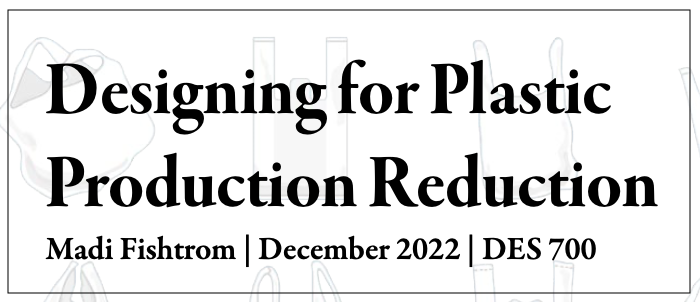
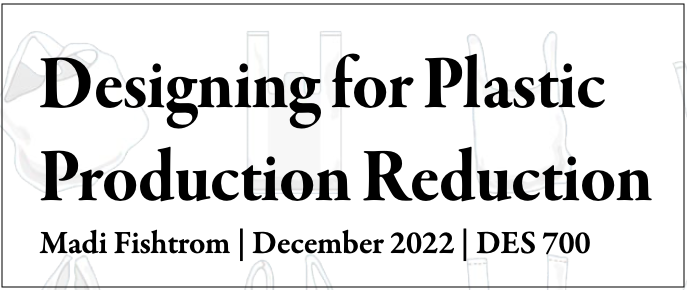
mobile formatting

Changed region(s): [[0.0, 0.0, 1.0, 1.0], [0.4585, 0.0931, 0.4891, 0.1241], [0.3668, 0.0931, 0.3974, 0.1241]]

diff --git a/styles.css b/styles.css
@@ -94,7 +94,7 @@ li:nth-of-type(6):hover{
 /* body */
 body{
     margin-top: 200px;
-    margin-bottom: 300px;
+    margin-bottom: 100px;
     margin-left: auto;
     overflow-y: auto;
 }
@@ -129,6 +129,7 @@ p{
 
 .title{
     font-family: 'Libre Baskerville', serif;
+    font-size: 24px;
     padding-right: 25px;
     padding-left: 25px;
     background-image: linear-gradient(to right, hsl(0, 75%, 90%), hsl(50deg 50% 75%), hsl(125deg 50% 75%), hsl(225deg 50% 75%), hsl(300deg 50% 75%));
@@ -205,7 +206,23 @@ h3{
 /* Project Management */
 
 iframe{
-    width: 200px;
+    width: 300px;
+    height: 500px;
+    display: block;
+    margin-left: auto;
+    margin-right: auto;
+}
+
+.research{
+    margin-top: 5%;
+    width: 500px;
+    display: block;
+    margin-left: auto;
+    margin-right: auto;
+}
+
+.smallerimg{
+    width: 50%;
     display: block;
     margin-left: auto;
     margin-right: auto;
@@ -224,7 +241,21 @@ footer {
 
 /* mobile formatting */
 
-@media only screen and (max-width: 800px) {
+@media screen and (max-width: 800px) {
+    .title{
+        font-size: 12px;
+    }
+
+    .about{
+        font-size: 10px;
+        padding-right: 10%;
+        padding-left: 10%;
+    }
+
+    p{
+        font-size: 10px;
+    }
+
     ul {
         list-style-type: none;
         margin: 0;
@@ -262,8 +293,26 @@ footer {
         background-image: linear-gradient(to right, hsl(0, 75%, 90%), hsl(50deg 50% 75%), hsl(125deg 50% 75%), hsl(225deg 50% 75%), hsl(300deg 50% 75%));
     }
 
+    h3{
+        font-size: small;
+    }
+
     hr{
         display: none;
+    }
+
+    iframe{
+        width: 100px;
+        height: auto;
+
+    }
+
+    .research{
+        margin-top: 15%;
+        width: 75%;
+        display: block;
+        margin-left: auto;
+        margin-right: auto;
     }
 
     .about{

diff --git a/other.html b/other.html
@@ -13,8 +13,6 @@
 
 </head>
 <header>
-    
-
     <ul>
         <section class="topnav" id="myTopnav">
             <li href="javascript:void(0);" class="icon" onclick="myFunction()">
@@ -43,13 +41,13 @@
             </a>
         <h3><b>Thermoformed Tableware</b><br>I designed children's utensils. Though my end product wasn't beautiful, I really enjoyed the process.</h3>
             <a href="Other/ThermoformedTableware.pdf">
-                <img src="Other/ThermoformedTableware.png" alt="CAD Model for Thermoformed Tableware" class="homepage">
+                <img src="Other/ThermoformedTableware.png" alt="CAD Model for Thermoformed Tableware" class="smallerimg">
             </a>
        
         <h2>Personal Projects</h2>
         <h3><b>Crafting</b><br>I am very passionate about creating things. I have a mini 3D printer, Cricut, and sewing machine that I use regularly.</h3>
             <a href="https://linktr.ee/mad.i.y.crafting">
-                <img src="Other/Crafting.png" alt="3D Printed Photo Keychains" class="homepage">
+                <img src="Other/Crafting.png" alt="3D Printed Photo Keychains" class="smallerimg">
             </a>
     </div>
 </body>

diff --git a/research.html b/research.html
@@ -41,7 +41,7 @@
             too often, which is something that we can fight to have changed. Click below to view a summary of my findings.
         </div><br>
         <a href="Research/CreativePracticeAsProtest.pdf">
-            <img src="Research/ProtestCover.png" alt="Cover Slide" class="homepage" style="margin-top: 100px;">
+            <img src="Research/ProtestCover.png" alt="Cover Slide" class="research">
         </a>
 
         <h3><b>Creative Work Project</b></h3><br>
@@ -51,7 +51,7 @@
             Click below to view my progress as of December 2023.
         </div><br>
         <a href="Research/CWPDec2023Benchmark.pdf">
-            <img src="Research/CWPCover.png" alt="Cover Slide" class="homepage" style="margin-top: 100px;">
+            <img src="Research/CWPCover.png" alt="Cover Slide" class="research">
         </a>
     </div>
     </div>

diff --git a/wd.html b/wd.html
@@ -31,7 +31,7 @@
 </header>
 
 <body>
-    <div style="padding-bottom: 50%;">
+    <div style="padding-bottom: 50%; margin-bottom: 60%;">
     <h1>Web Development</h1>
     <p> 
         <h2>Real Websites</h2>
